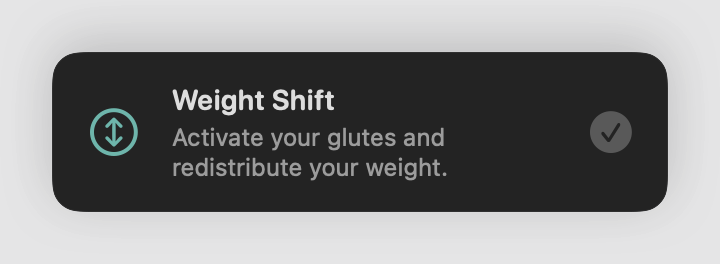
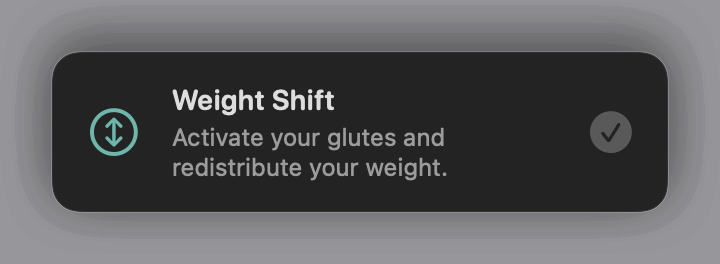
Add MIT licence, rewrite README with screenshots
Editor sheet is taller so all four priority options are visible without
scrolling — they are the point of the app, so they should not be tucked
below the fold.

diff --git a/Sources/ReminderApp/NotificationPresenter.swift b/Sources/ReminderApp/NotificationPresenter.swift
@@ -13,7 +13,6 @@ final class NotificationPresenter: NSObject {
     weak var engine: ReminderEngine?
 
     private let center = UNUserNotificationCenter.current()
-    private var isAuthorized = false
 
     /// Identifiers used to wire notification buttons back to reminders.
     private enum Action {
@@ -28,6 +27,19 @@ final class NotificationPresenter: NSObject {
     /// the reminder some other way rather than dropping it silently.
     var fallbackPresenter: ((Reminder, ReminderCore.Settings) -> Void)?
 
+    /// Whether the system will currently deliver notifications for us.
+    ///
+    /// Starts as `.unknown` rather than "no": on first launch the authorization
+    /// request has not come back yet, and treating that as a refusal would send
+    /// every early reminder down the fallback path.
+    private enum Availability {
+        case unknown
+        case available
+        case unavailable
+    }
+
+    private var availability: Availability = .unknown
+
     func configure() {
         center.delegate = self
         registerCategories()
@@ -35,12 +47,14 @@ final class NotificationPresenter: NSObject {
     }
 
     private func requestAuthorization() {
+        // Read the stored decision first. If the user has already answered, this
+        // settles it without waiting; if not, the request below prompts them.
+        refreshAuthorizationStatus()
         center.requestAuthorization(options: [.alert, .sound, .badge]) { [weak self] granted, _ in
             Task { @MainActor in
-                self?.isAuthorized = granted
+                self?.availability = granted ? .available : .unavailable
             }
         }
-        refreshAuthorizationStatus()
     }
 
     /// Re-reads the current authorization. System notifications are unavailable
@@ -49,10 +63,21 @@ final class NotificationPresenter: NSObject {
     /// this and fall back to the app's own windows when it is not available.
     func refreshAuthorizationStatus() {
         center.getNotificationSettings { [weak self] settings in
-            let usable = settings.authorizationStatus == .authorized
-                || settings.authorizationStatus == .provisional
+            let availability: Availability
+            switch settings.authorizationStatus {
+            case .authorized, .provisional, .ephemeral:
+                availability = .available
+            case .denied:
+                availability = .unavailable
+            case .notDetermined:
+                // Still waiting on the user; leave the current value alone so a
+                // pending prompt does not look like a refusal.
+                return
+            @unknown default:
+                availability = .unavailable
+            }
             Task { @MainActor in
-                self?.isAuthorized = usable
+                self?.availability = availability
             }
         }
     }
@@ -86,7 +111,7 @@ final class NotificationPresenter: NSObject {
     /// handed to `fallbackPresenter` instead. Missing a pressure-relief prompt
     /// because of a permissions technicality is not an acceptable failure.
     func post(_ reminder: Reminder, settings: ReminderCore.Settings) {
-        guard isAuthorized else {
+        if availability == .unavailable {
             fallbackPresenter?(reminder, settings)
             return
         }
@@ -121,13 +146,40 @@ final class NotificationPresenter: NSObject {
             trigger: nil
         )
         center.add(request) { [weak self] error in
-            guard error != nil else { return }
-            // Delivery failed after we thought we were authorized; show it
-            // ourselves rather than losing the reminder.
             Task { @MainActor in
-                self?.isAuthorized = false
-                self?.fallbackPresenter?(reminder, settings)
+                guard let self else { return }
+                if error != nil {
+                    // Delivery failed; show it ourselves rather than losing it.
+                    self.availability = .unavailable
+                    self.fallbackPresenter?(reminder, settings)
+                    return
+                }
+                // Accepted by the system. Confirm it was actually delivered
+                // rather than silently swallowed, because a reminder that no
+                // one sees is the one failure this app cannot afford.
+                self.confirmDelivery(of: request.identifier, reminder: reminder, settings: settings)
             }
+        }
+    }
+
+    /// Checks that a posted notification really reached the user, and shows the
+    /// in-app card if it did not.
+    private func confirmDelivery(
+        of identifier: String, reminder: Reminder, settings: ReminderCore.Settings
+    ) {
+        Task { @MainActor [weak self] in
+            // A moment's grace: the system registers a delivered notification
+            // slightly after accepting it, and checking too eagerly would report
+            // a false failure and show the card on top of a real banner.
+            try? await Task.sleep(nanoseconds: 1_500_000_000)
+            guard let self else { return }
+
+            let delivered = await self.center.deliveredNotifications()
+            let landed = delivered.contains { $0.request.identifier == identifier }
+            guard !landed else { return }
+
+            self.availability = .unavailable
+            self.fallbackPresenter?(reminder, settings)
         }
     }
 

diff --git a/Sources/ReminderApp/SnapshotHarness.swift b/Sources/ReminderApp/SnapshotHarness.swift
@@ -126,10 +126,20 @@ enum SnapshotHarness {
             )
         }
 
+        // Editors render at their real sheet size. The form scrolls in the app,
+        // so the snapshot shows the top of it, which is the part worth showing.
         snapshot(
             ReminderEditor(reminder: engine.reminders.first) { _ in },
-            size: NSSize(width: 460, height: 620),
+            size: NSSize(width: 470, height: 760),
             named: "editor",
+            into: directory
+        )
+
+        // The blank editor: what you see when adding a reminder from scratch.
+        snapshot(
+            ReminderEditor(reminder: nil) { _ in },
+            size: NSSize(width: 470, height: 760),
+            named: "editor-new",
             into: directory
         )
     }
@@ -154,7 +164,9 @@ enum SnapshotHarness {
             defer: false
         )
         window.contentView = hosting
-        window.backgroundColor = .clear
+        // Opaque window background: a clear one leaves white bands where the
+        // view does not paint, which looks like a rendering fault in a README.
+        window.backgroundColor = .windowBackgroundColor
         window.orderFrontRegardless()
 
         // Give SwiftUI a turn of the run loop to lay out before snapshotting;

diff --git a/Sources/ReminderApp/ReminderEditor.swift b/Sources/ReminderApp/ReminderEditor.swift
@@ -227,7 +227,10 @@ struct ReminderEditor: View {
             }
             .padding(12)
         }
-        .frame(width: 460, height: 620)
+        // Tall enough that the whole form — including all four priority options,
+        // which are the point of the app — is visible without scrolling on a
+        // typical display. The ScrollView still handles smaller screens.
+        .frame(width: 470, height: 760)
     }
 
     private func save() {

diff --git a/README.md b/README.md
@@ -11,19 +11,56 @@ water, stretch, take medication, or call their mum every Sunday.
 Everything is stored locally. There is no account, no sync, and no network
 code in the app at all.
 
-<p align="center">
-  <img src="docs/images/overlay-critical.png" width="680" alt="Full-screen tilt reminder with a five-minute countdown">
-</p>
+---
+
+## Critical reminders take over the screen
+
+The hourly tilt reminder is the reason this app exists. It dims every display
+and stays there until you acknowledge it, with a countdown so "stop working for
+five minutes" is a finite thing rather than an open-ended instruction.
 
 <p align="center">
-  <img src="docs/images/popover.png" width="330" alt="Menu bar popover listing reminders and their countdowns">
-  &nbsp;&nbsp;
-  <img src="docs/images/settings.png" width="430" alt="Settings window listing reminders with priority and schedule">
+  <img src="docs/images/overlay-critical.png" width="760" alt="Full-screen dark overlay reading Tilt Back, with the message 'Tilt your chair back for 5 minutes. Stop working and listen to calming music.', a 5:00 countdown ring, and Snooze and Finish Early buttons.">
 </p>
+
+## Subtle reminders stay out of the way
+
+The 20-minute weight shift nudge is the opposite: a small card in the corner
+that never steals focus and fades away on its own. Frequent reminders have to
+be quiet, or you learn to ignore them.
+
+<p align="center">
+  <img src="docs/images/overlay-subtle.png" width="420" alt="A small card in the corner of the screen reading Weight Shift, 'Activate your glutes and redistribute your weight', with a tick button.">
+</p>
+
+## Everything at a glance
+
+Clicking the menu bar icon shows what is coming and when. You can tick something
+off, flick a reminder on or off, or pause everything.
+
+<p align="center">
+  <img src="docs/images/popover.png" width="340" alt="Menu bar popover showing 'Next up: Weight Shift, 19 min', then a list of reminders with their schedules, countdowns and toggles.">
+</p>
+
+## Managing your reminders
+
+<p align="center">
+  <img src="docs/images/settings.png" width="620" alt="Settings window with Reminders, Preferences and History tabs, listing four reminders with their schedule, priority and an on/off switch.">
+</p>
+
+## Adding your own
+
+Give it a name, pick an icon, choose how often it repeats and how much it should
+interrupt you. Each priority explains what it will actually do, so the choice is
+not a guess.
+
+<p align="center">
+  <img src="docs/images/editor-new.png" width="440" alt="New Reminder sheet with fields for title and message, a grid of icons, a Repeating/Daily/Weekly schedule picker, and Subtle/Normal/Important/Critical priority options.">
+</p>
+
+---
 
 ## Priority tiers
-
-The tier decides how the reminder shows up:
 
 | Tier | Presentation |
 |---|---|
@@ -32,18 +69,13 @@ The tier decides how the reminder shows up:
 | **Important** | A notification with sound, marked time-sensitive |
 | **Critical** | A full-screen overlay on *every* display, until you acknowledge it |
 
-Critical is deliberately hard to ignore, because for pressure relief, ignoring
-it has consequences. Subtle exists so a frequent nudge (every 20 minutes, all
-day) does not become something you learn to tune out.
-
 ## Schedules
 
 - **Repeating** — every N minutes, measured from the last time it fired
 - **Daily** — at a set time, every N days (so "every second day" stays in phase)
 - **Weekly** — at a set time on chosen weekdays
 
-Reminders with a set duration ("tilt back for 5 minutes") show a countdown, so
-the prompt is a finite activity rather than an open-ended instruction.
+Reminders with a set duration show a countdown while you do the activity.
 
 ## What ships by default
 
@@ -65,32 +97,41 @@ All of them can be edited or deleted, and you can add your own.
   natural next slot is further away, and it fires late rather than vanishing if
   your Mac was asleep at the moment it was due
 - **History and adherence**, showing how often each reminder was completed
+- **Launch at login**, since a reminder app you have to remember to start is not
+  much of a reminder app
 
 ## Requirements
 
 macOS 13 or later.
 
-## Building
+## Installing
+
+Download the latest release, unzip it, and drag `Reminder.app` to your
+Applications folder. The released build is signed and notarized by Apple, so it
+opens without a Gatekeeper warning.
+
+macOS will ask for notification permission the first time it runs. If you
+decline, or the prompt never appears, the Normal and Important tiers fall back
+to the app's own on-screen card — nothing is silently dropped either way. You
+can change your mind later in System Settings → Notifications → Reminder.
+
+## Building from source
 
 ```sh
 ./scripts/build_app.sh      # builds dist/Reminder.app, ad-hoc signed
 open dist/Reminder.app
 ```
 
-To sign for distribution to other machines:
+To sign with your own Developer ID:
 
 ```sh
 SIGN_IDENTITY="Developer ID Application: Your Name (TEAMID)" ./scripts/build_app.sh
 ```
 
-### Notifications and notarization
+### Notarization
 
 macOS will not grant notification authorization to an app it does not fully
-trust, so on an unnotarized build the Normal and Important tiers fall back to
-the app's own on-screen card. Everything still works — the reminder is never
-dropped — but they are not true system notifications.
-
-To get real notifications, notarize the app once:
+trust, so a build for other people needs notarizing:
 
 ```sh
 xcrun notarytool store-credentials "reminder-notary" \
@@ -102,8 +143,6 @@ xcrun notarytool store-credentials "reminder-notary" \
 
 An app-specific password is created at
 [appleid.apple.com](https://appleid.apple.com) under "App-Specific Passwords".
-Subtle and Critical reminders use the app's own windows and are unaffected
-either way.
 
 ### Tests
 
@@ -112,8 +151,9 @@ swift test
 ```
 
 The scheduling logic is a pure function of `(reminder, now)` with no timers, so
-the suite drives a controllable clock and covers overdue catch-up, snooze,
-quiet hours, pause, and the multi-day phase behaviour directly.
+the suite drives a controllable clock. It covers overdue catch-up after the Mac
+sleeps, snooze, quiet hours, pause, daylight-saving shifts in both directions,
+leap day, and month and year boundaries.
 
 ### Icons
 
@@ -124,7 +164,7 @@ template images are generated from it:
 ./scripts/build_icons.sh
 ```
 
-### Looking at the UI
+### Screenshots
 
 ```sh
 ./dist/Reminder.app/Contents/MacOS/Reminder --snapshot build/ui
@@ -148,9 +188,13 @@ Plain JSON — readable, editable, backup-able, and yours.
 Sources/ReminderCore/   Models, scheduler, storage, engine (no UI, fully tested)
 Sources/ReminderApp/    Menu bar, overlays, notifications, settings
 Tests/                  83 tests against the core
-scripts/                Build, icon generation, rasterizer
+scripts/                Build, notarize, icon generation, rasterizer
 ```
 
 `ReminderCore` deliberately knows nothing about AppKit: the engine hands fired
 reminders to a `ReminderPresenting` protocol, which is what makes the firing
 rules testable without a screen.
+
+## Licence
+
+MIT — see [LICENSE](LICENSE).
